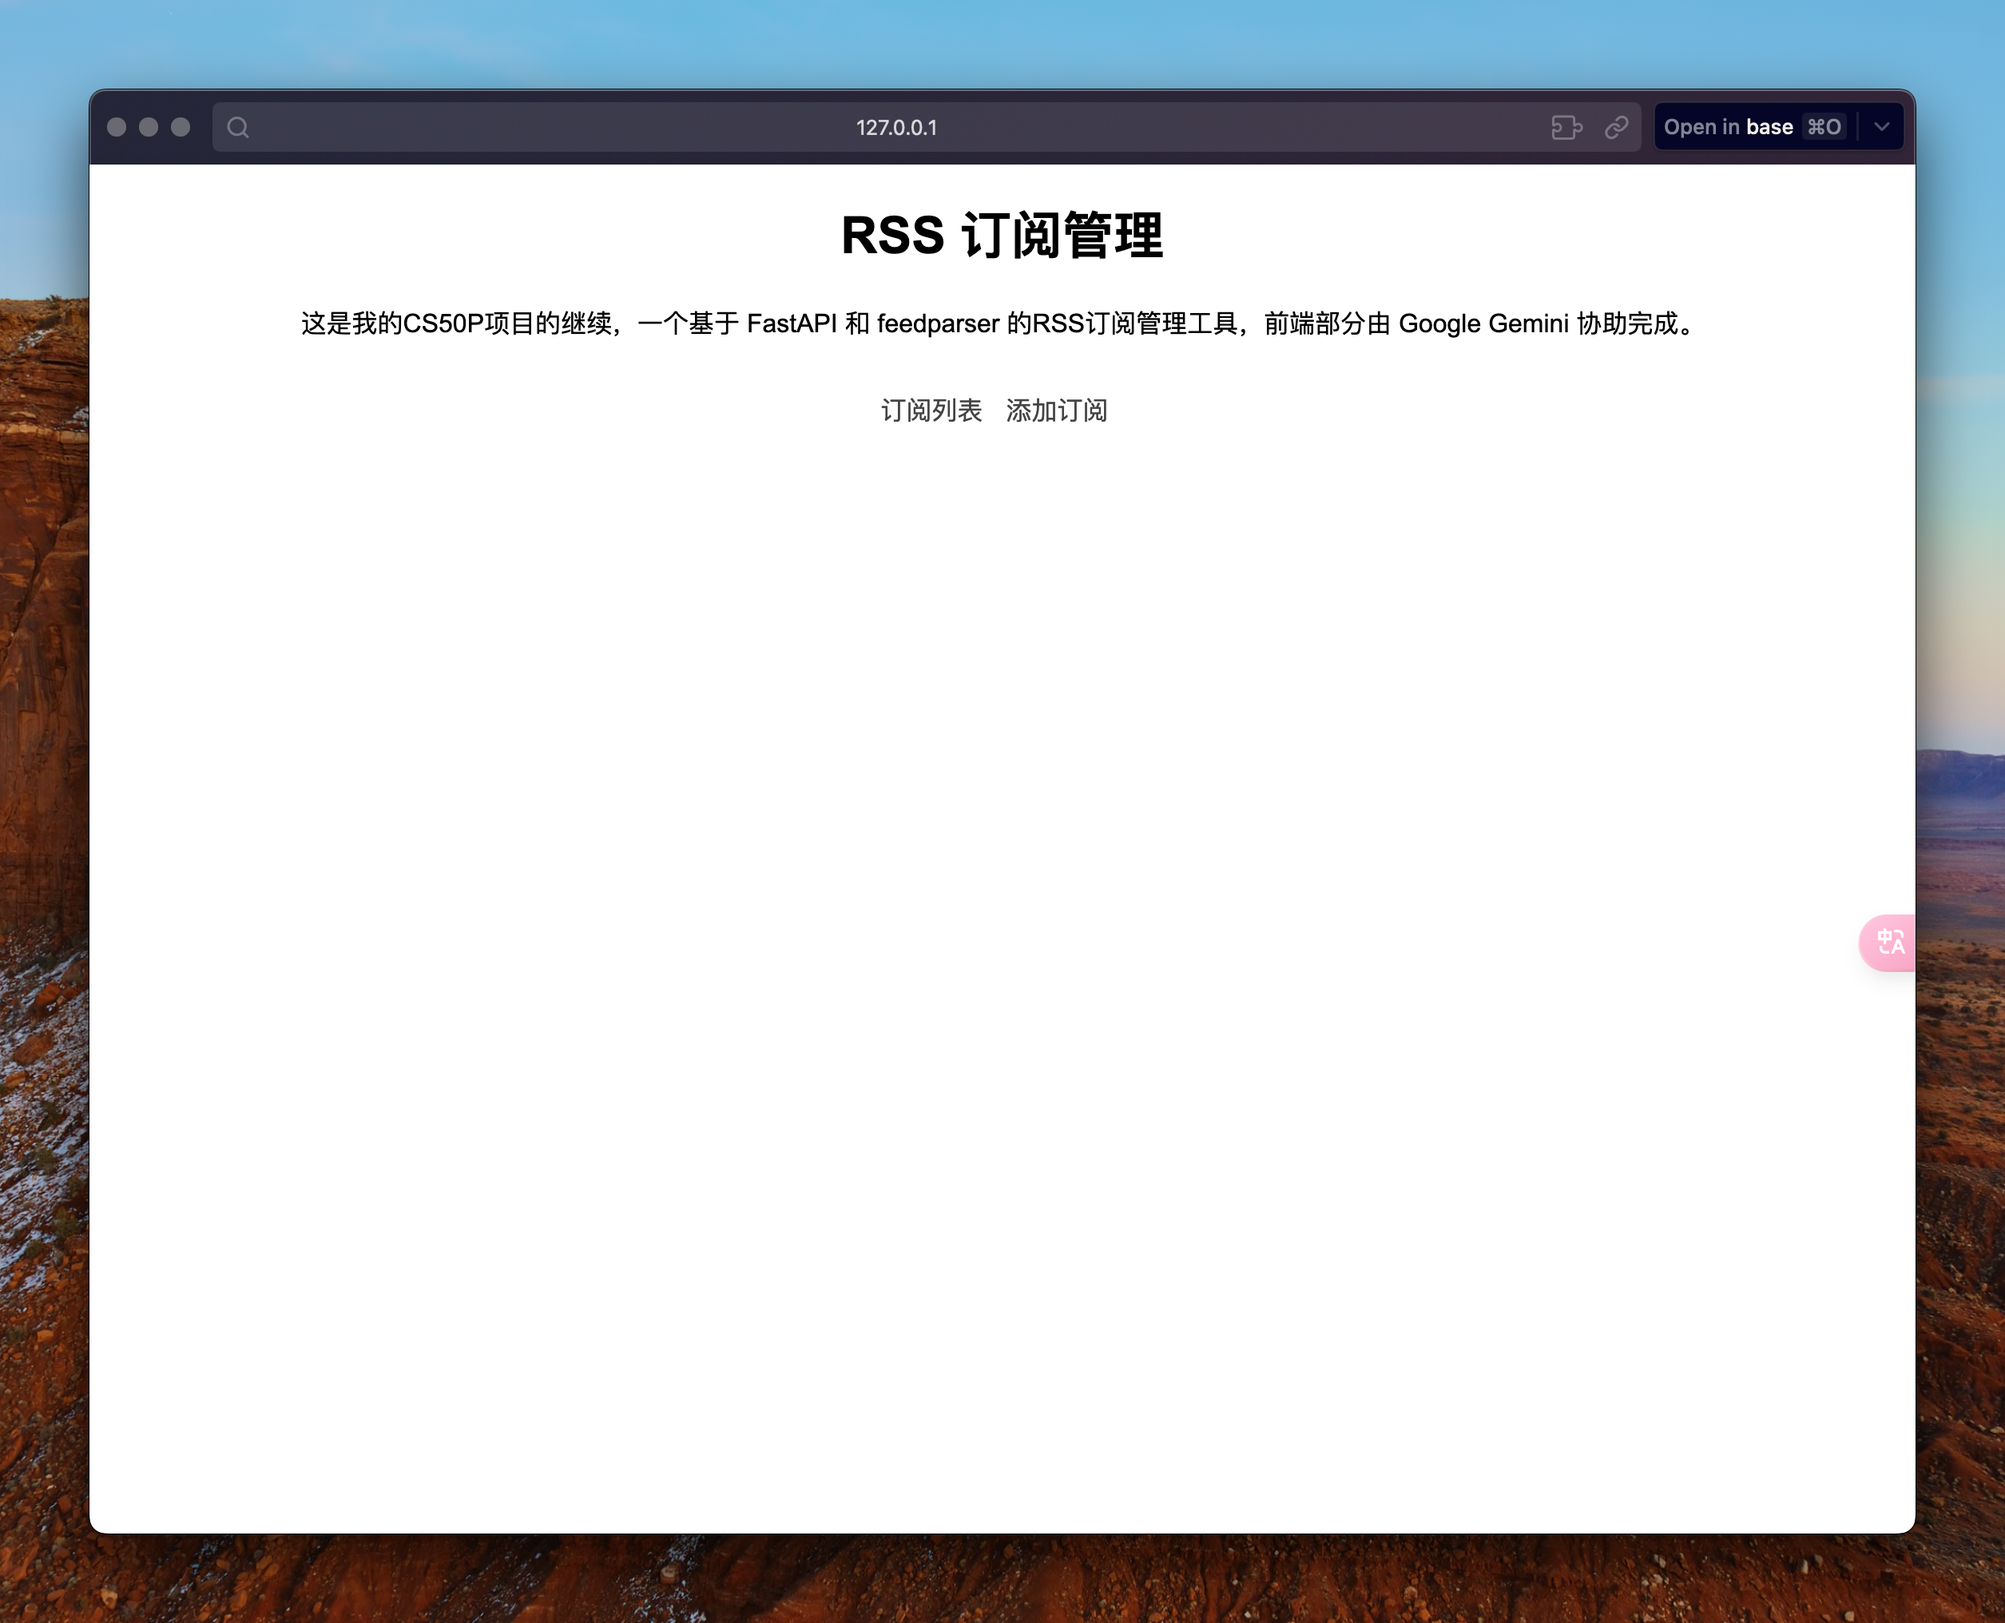
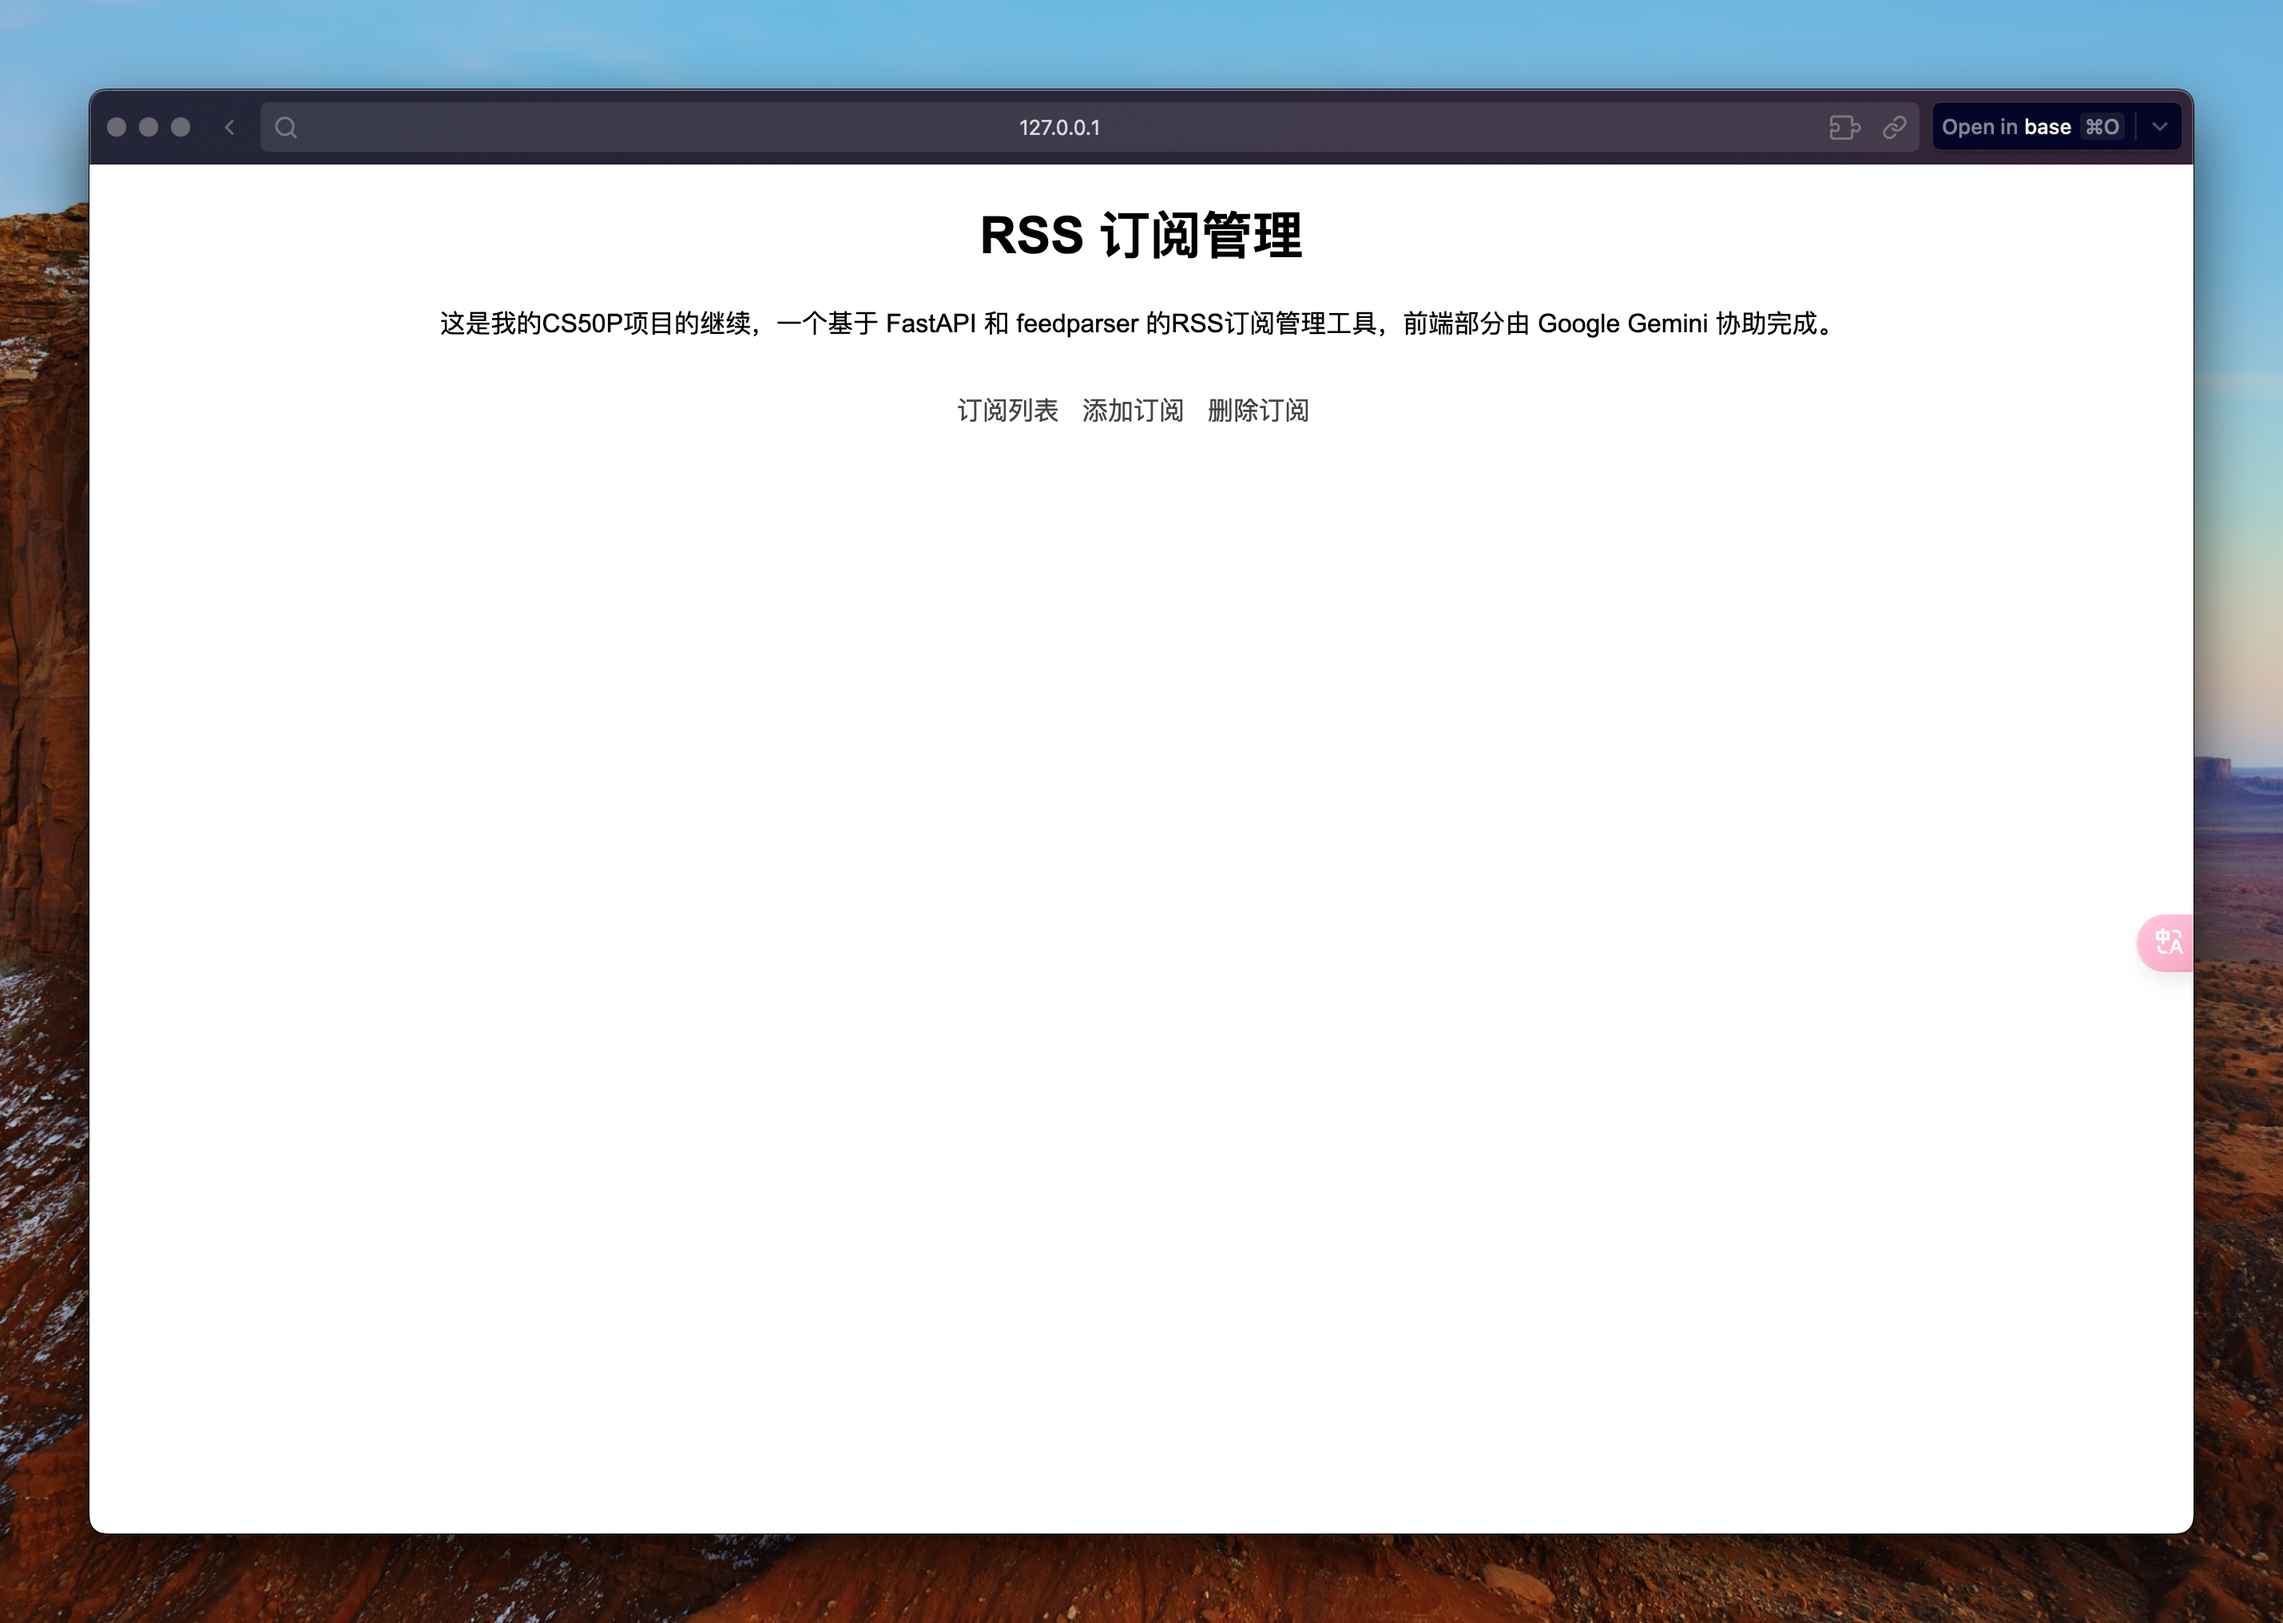
update: update readme.md && rye fmt

diff --git a/main.py b/main.py
@@ -1,7 +1,13 @@
 from fastapi import FastAPI, Form, Request
 from fastapi.templating import Jinja2Templates
 
-from utils import Feed, add_feed_to_db, get_all_feeds, get_articles_for_feed,delete_feed_from_db
+from utils import (
+    Feed,
+    add_feed_to_db,
+    delete_feed_from_db,
+    get_all_feeds,
+    get_articles_for_feed,
+)
 
 app = FastAPI()
 

diff --git a/utils.py b/utils.py
@@ -58,7 +58,7 @@ def get_articles_for_feed(feed_id: int):
     return articles
 
 
-def delete_feed_from_db(url:str):
+def delete_feed_from_db(url: str):
     with Session(engine) as session:
         feed = session.query(Subscription).filter(Subscription.url == url).first()
         session.delete(feed)

diff --git a/README.md b/README.md
@@ -2,6 +2,7 @@
 
 这是一个基于 FastAPI 和 feedparser 的RSS订阅管理工具。他可以添加rss订阅到 SQLite 数据库，可以通过点击订阅列表的标题展示该订阅的所有文章。
 
+
 ## 首页
 
 首页包含 Feeds List 和 添加订阅 页面的入口。
@@ -10,11 +11,13 @@
 
 ![Index](/pictures/index.png "Index")
 
+
 ## 添加订阅
 
 在此页面可以添加 RSS 订阅链接至一个 SQLite 数据库中。
 
 ![Add_Feed](/pictures/add_feed.png "Add_Feed")
+
 
 ## 订阅列表
 
@@ -25,6 +28,12 @@
 通过点击不同的标题，可以查看对应RSS订阅中的所有文章列表。在文章列表点击文章标题可以跳转至原文网址。
 
 ![Articles_List](/pictures/articles.png "Articles_List")
+
+
+## 删除订阅
+在此页面可以删除已添加到数据库中的订阅
+
+![Delete_Feed](/pictures/delete_feed.png "Delete_Feed")
 
 
 ## TODO
